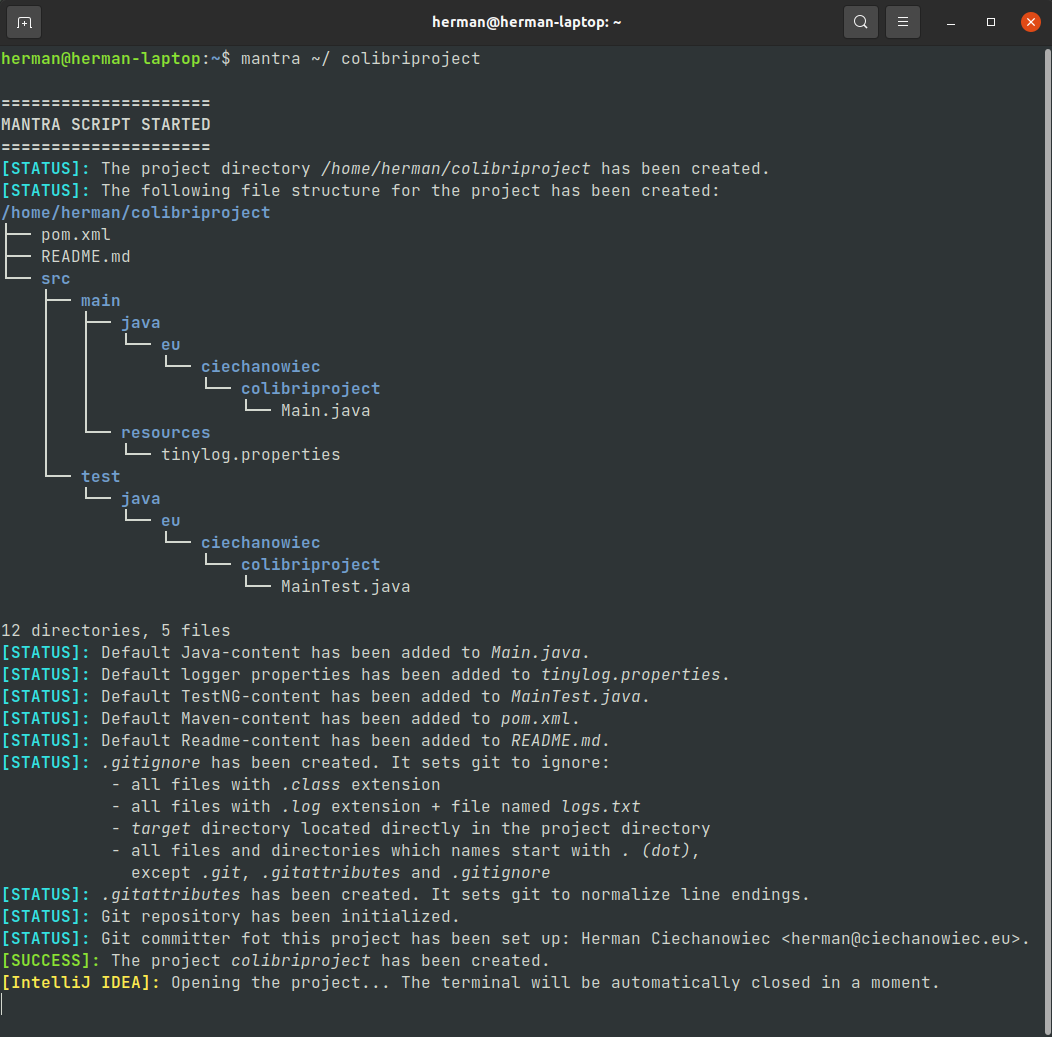
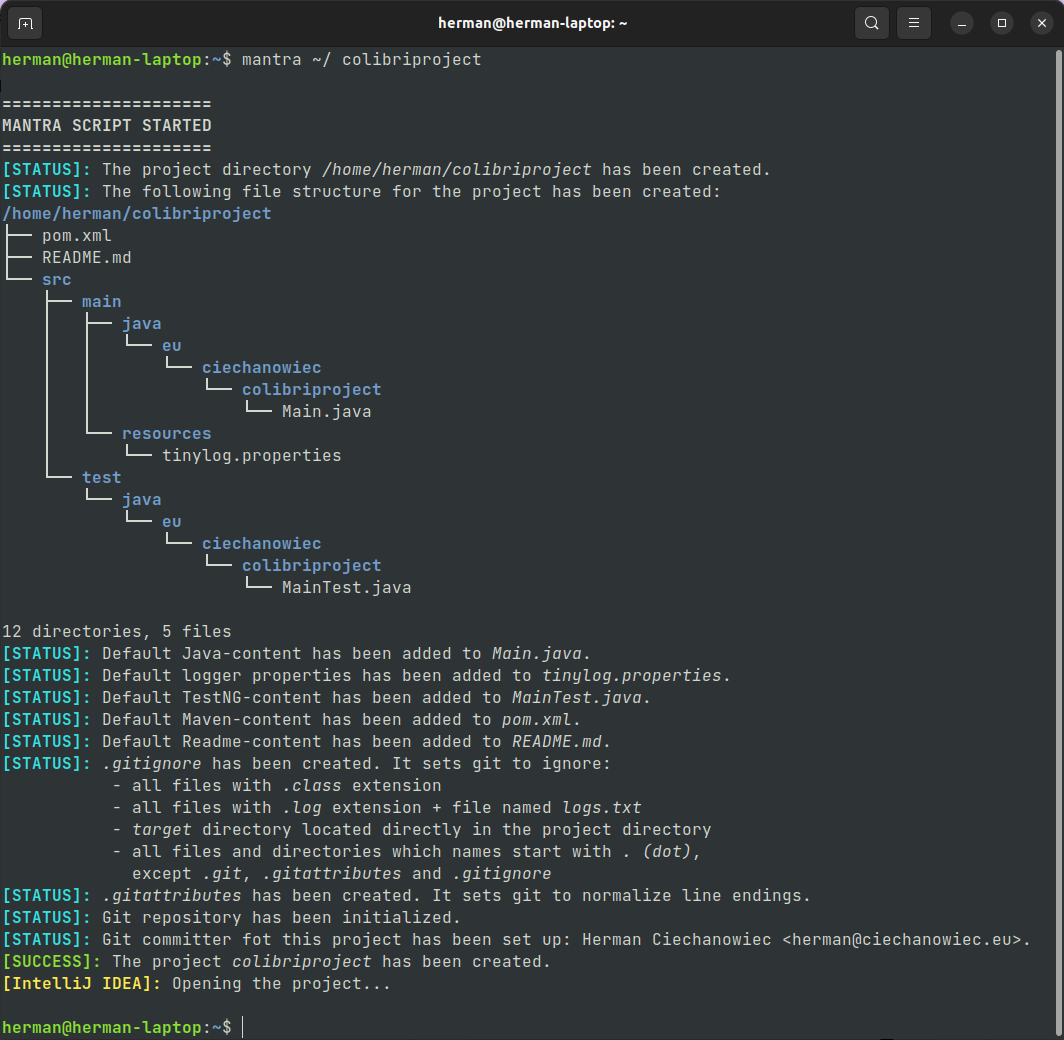
Remove terminal autokill
Autokilling terminal caused perfomance issues

diff --git a/README.md b/README.md
@@ -77,7 +77,7 @@ The above file structure implements the default file structure used by maven-arc
 12\. Initialize git repository in the project directory<br/>
 13\. Set up git committer<br/>
 14\. Show finish message on successful project creation<br/>
-15\. Propose to open the project directory in the new window with IntelliJ IDEA Community or Visual Studio Code if installed (this option works if it was turned on during configuration, by default it is turned off)
+15\. Open the project directory in the new window with IntelliJ IDEA Community or Visual Studio Code if installed (this option works if it was turned on during configuration, by default it is turned off)
 
 ## How to Use
 1. Make sure that prerequisites listed above are installed
